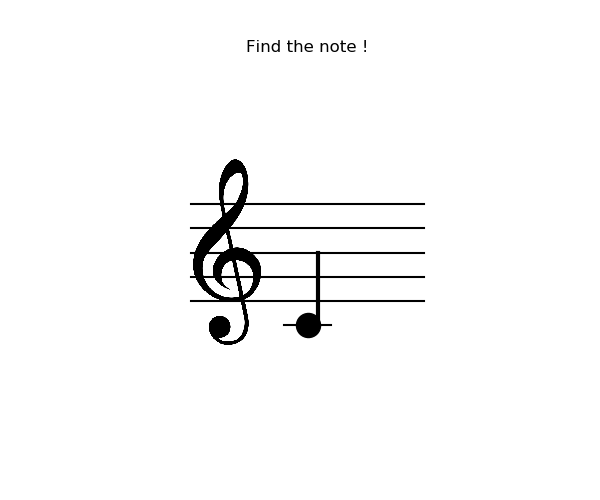
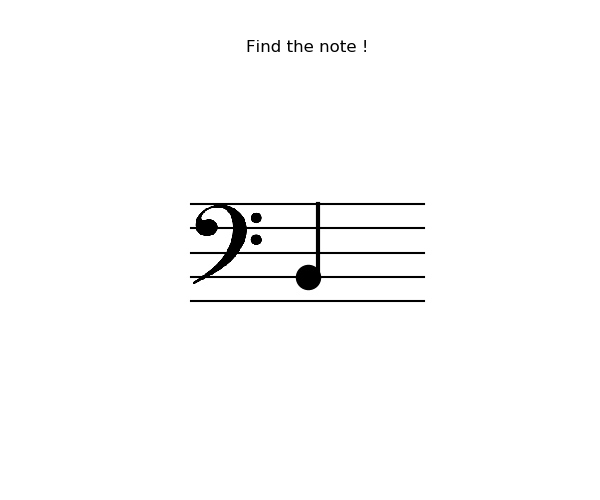
Ajout clé de fa, corrections diverses

Changed region(s): [[0.3, 0.3, 0.45, 0.69], [0.48, 0.42, 0.54, 0.69]]

diff --git a/JAC.py b/JAC.py
@@ -31,13 +31,14 @@ class Bot(discord.Client):
     # Modifiable :
     delay = 5
     delay_short = 4
-    NB_QUESTIONS = 5 # le nombre de questions pour le mode multijoueur
+    delay_short_short = 3
 
 
     # Non Modifiable - Initialisation des variables
     listen_for_mode=False
     listen_for_level=False
     listen_for_answer=False
+    listen_for_nbQuestion = False
     start_ = False
     hauteur = 0
     niveau = 1
@@ -49,6 +50,8 @@ class Bot(discord.Client):
     channel = None
     chrono = False
     classement_tmp = []
+    NB_QUESTIONS = 5 # nombre de questions mode multijoueur
+    switch = False #changement clé de fa
 
 
 
@@ -79,9 +82,10 @@ class Bot(discord.Client):
         x = 2
         if self.niveau==2:
             y = random.randint(-5,12) # note choisie de facon aléatoire niveau 2 (hors de la portée)
+            self.delay = self.delay_short #temps plus court
         elif self.niveau==3:
             y = random.randint(-9,19) # note choisie de facon aléatoire niveau 3 (hors de la portée - expert)
-            self.delay = self.delay_short #temps plus court
+            self.delay = self.delay_short_short #temps plus court
         else :
             y = random.randint(-2,9) # note choisie de facon aléatoire niveau 1 (sur la portée Do-Sol)
 
@@ -111,12 +115,19 @@ class Bot(discord.Client):
 
         # Affichage
         plt.title("Find the note !")
-        #Affichage de la clé de sol
-        image = plt.imread("./images/gkey.png")#Récupère la clé de sol
+        if not self.switch :
+            #Affichage de la clé de sol
+            image = plt.imread("./images/gkey.png")#Récupère la clé de sol
+            im = OffsetImage(image, zoom=0.15) #Resizing
+            ab = AnnotationBbox(im, (0.6, 4), xycoords='data', frameon=False) #positionnement
+        else :
+            #Affichage de la clé de fa
+            image = plt.imread("./images/fkey.png")#Récupère la clé de fa
+            im = OffsetImage(image, zoom=0.32)
+            ab = AnnotationBbox(im, (0.6, 4.7), xycoords='data', frameon=False)
+
         ax = plt.gca()
-        im = OffsetImage(image, zoom=0.15)
         artists = []
-        ab = AnnotationBbox(im, (0.6, 4), xycoords='data', frameon=False)
         artists.append(ax.add_artist(ab))
         self.hauteur = y
         # Enregistrement de l'image
@@ -128,6 +139,7 @@ class Bot(discord.Client):
     def check_answer(self, res, delay):
         # Réponses
         y=self.hauteur
+        if self.switch:y+=2
         notes_values=[]
         for i in range(7):
             notes_values.append([i-2+k*7 for k in range(-1,4)])
@@ -187,15 +199,16 @@ class Bot(discord.Client):
         print("------")
 
 
-    async def createQuestion(self, message):
+    async def createQuestion(self):
         # Question suivante
         self.create_im_question()
         self.listen_for_answer = True
-        message_img = await message.channel.send(file=discord.File(os.getcwd() +"/jac_img.png"))
+        message_img = await self.channel.send(file=discord.File(os.getcwd() +"/jac_img.png"))
         if self.niveau == 1:
             await message_img.add_reaction("💡")
         #Réactivation du chrono
         self.t_debut=time.time()
+        #Réinitialise le classement_tmp pour le mode mulitjoueur, propre à chaque question
         self.classement_tmp = []
 
 
@@ -206,8 +219,18 @@ class Bot(discord.Client):
         '''
         if self.start_:
             if user != self.user and reaction.emoji == "💡":
-                await self.channel.send(file=discord.File("./images/help.jpg"))
+                if not self.switch:
+                    await self.channel.send(file=discord.File("./images/ghelp.png")) #sol
+                else:
+                    await self.channel.send(file=discord.File("./images/fhelp.png")) #fa
+
                 self.t_debut=time.time()
+
+            if user != self.user and reaction.emoji == "⏩":
+                self.mode = 1
+                self.niveau = 1
+                await self.createQuestion()
+
 
 
 
@@ -215,17 +238,18 @@ class Bot(discord.Client):
         '''
         Affiche le classement des joueurs
         '''
-        print(self.players)
-        R = {k: v for k, v in sorted(self.players.items(), key=lambda item: item[1], reverse=True)}
+        #print(self.players)
+        R = {k: v for k, v in sorted(self.players.items(), key=lambda item: item[1])} #Trie les joueurs par classement croissant
         res = "**Classement :**\n"
-        for k in range(min(3, len(self.players))):
-            res += (str(k+1) + " - " + list(R.keys())[k] + " (" + str(list(R.values())[k]) + " points)\n")
+        l=len(self.players)-1
+        for k in range(l,  l-min(3,l+1), -1):
+            res += (str(l-k+1) + " - " + list(R.keys())[k] + " (" + str(list(R.values())[k]) + " points)\n")
         await message.channel.send(res)
 
 
     async def sendMeme(self, message, txtAnswer):
         score = self.players[message.author.name]
-        L = init_gif(score, txtAnswer)
+        L = init_gif(score, txtAnswer) # appelle à la méthode du fichier gif.py
         if len(L)>0:
             await message.channel.send(L[random.randint(0,len(L)-1)])
 
@@ -237,7 +261,8 @@ class Bot(discord.Client):
         if (message.content.startswith("!start")):
             self.start_ = True
             self.channel = message.channel
-            await message.channel.send("**Bienvenue !** \nCommandes :\n - !play, \n - !help, \n - !stop")
+            tmp = await message.channel.send("**Bienvenue !** \nCommandes principales :\n - !play, \n - !help, \n - !stop")
+            await tmp.add_reaction("⏩")
 
 
         if(message.author == self.user):#Ignore les messages provenant du bot
@@ -255,11 +280,17 @@ class Bot(discord.Client):
             #Aide
             if(message.content.startswith("!help") and not self.listen_for_answer):
                 intr = ""
-                cmd = "**Commandes :**\n - !play : commencer le jeu \n - !stop : arreter de jouer \n\n"
+                cmd = "**Commandes :**\n - !play : commencer le jeu \n - !switch : passer à la clé de fa \n - !stop : arreter de jouer \n\n"
                 mds = "**Modes :** \n - Entrainement \n - Multijoueurs \n\n"
                 fmts = "**Formats des réponses :** si, Si, SI, B, b \n\n"
                 cnt = "Copyright © 2021 Nathan.\n"
                 await message.channel.send(intr + cmd + mds + fmts + cnt)
+
+            #Switch clé de fa
+            if message.content.startswith("!switch"):
+                self.switch = not self.switch
+                await message.add_reaction("👌")
+
 
             # Mode Entrainement
             if(self.listen_for_answer and self.mode == 1):
@@ -277,16 +308,16 @@ class Bot(discord.Client):
 
 
                 else:
-                    if(txt[0]=="T"):
+                    if(txt[0]=="T"): # si réponse correcte
                         if not message.author.name in self.players:
                             self.players[message.author.name] = 0
-                        embed = self.create_embed(txt, " ", discord.Colour(int("0xFFA500", 16)))
+                        embed = self.create_embed(txt, " ", discord.Colour(int("0xFFA500", 16))) # création d'un embed vert
                     else:
                         self.players[message.author.name] = 0
-                        embed = self.create_embed(txt, " ", discord.Colour(int("0xFF0000", 16)))
-                await message.channel.send(embed=embed)
+                        embed = self.create_embed(txt, " ", discord.Colour(int("0xFF0000", 16))) # création d'un enbed rouge
+                await message.channel.send(embed=embed) # envoi de l'embed
                 await self.sendMeme(message, txt[0])
-                await self.createQuestion(message)
+                await self.createQuestion()
 
 
 
@@ -315,11 +346,11 @@ class Bot(discord.Client):
                 if not self.chrono:
                     try:
                         self.chrono = True
-                        reaction, user = await discord.Client().wait_for('reaction_add', timeout=5.0)
-                    except asyncio.TimeoutError:
+                        reaction, user = await discord.Client().wait_for('reaction_add', timeout=self.delay)
+                    except asyncio.TimeoutError:#après 5 secondes, envoi de la question suivante
                         self.questions_counter += 1
                         if self.questions_counter <= self.NB_QUESTIONS:
-                            await self.createQuestion(message)
+                            await self.createQuestion()
                             self.chrono = False
                         else :
                             self.chrono = False
@@ -333,17 +364,32 @@ class Bot(discord.Client):
                 self.niveau = int(message.content)
                 self.listen_for_level = False
                 await message.add_reaction("👌")
-                await message.channel.send("**" + str(self.NB_QUESTIONS) + " questions - " + str(self.delay) + " secondes pour répondre le plus vite possible - une réponse fausse fait perdre des points**")
-                await self.createQuestion(message)
+                if self.niveau == 3: self.delay = self.delay_short_short
+                if self.niveau == 2: self.delay = self.delay_short
+                if self.mode == 2:
+                    await message.channel.send("**" + str(self.NB_QUESTIONS) + " questions - " + str(self.delay) + " secondes pour répondre le plus vite possible - une réponse fausse fait perdre des points**")
+                await self.createQuestion()
+
+            if(self.listen_for_nbQuestion):
+                self.NB_QUESTIONS = int(message.content)
+                await message.add_reaction("👌")
+                self.listen_for_nbQuestion = False
+                await message.channel.send("**Niveau :** \n 1 - facile \n 2 - dur \n 3 - très dur")
+                self.listen_for_level = True
+
 
             if(self.listen_for_mode):
                 self.listen_for_mode = False
                 self.mode = int(message.content)
                 self.questions_counter = 1
                 await message.add_reaction("👌")
-                players = {} # reinitialise le dico players
-                await message.channel.send("**Niveau :** \n 1 - facile \n 2 - dur \n 3 - très dur")
-                self.listen_for_level = True
+                self.players = {} # reinitialise le dico players
+                if self.mode == 2:
+                    await message.channel.send("Nombre de questions ?")
+                    self.listen_for_nbQuestion = True
+                else:
+                    await message.channel.send("**Niveau :** \n 1 - facile \n 2 - dur \n 3 - très dur")
+                    self.listen_for_level = True
 
 
             #Selection mode

diff --git a/gif.py b/gif.py
@@ -22,7 +22,7 @@ def init_gif(score, txtAnswer):
 
 
         elif score == 10:
-            L=["https://tenor.com/view/well-done-despicable-me-minions-cheering-gif-4733480", "https://tenor.com/view/clapping-leonardo-dicaprio-leo-dicaprio-well-done-applause-gif-16463566", "https://tenor.com/view/awesome-reaction-you-who-whos-awesome-gif-4860921", "https://tenor.com/view/wow-ted2-ted2gifs-amaze-gif-4869672"]
+            L=["https://tenor.com/view/well-done-despicable-me-minions-cheering-gif-4733480", "https://tenor.com/view/clapping-leonardo-dicaprio-leo-dicaprio-well-done-applause-gif-16463566", "https://tenor.com/view/awesome-reaction-you-who-whos-awesome-gif-4860921", "https://tenor.com/view/wow-ted2-ted2gifs-amaze-gif-4869672", "https://tenor.com/view/you-da-gif-15960920"]
 
 
         elif score == 20:
@@ -41,8 +41,8 @@ def init_gif(score, txtAnswer):
         L=["https://tenor.com/view/mr-bean-checking-time-waiting-gif-11570520", "https://tenor.com/view/judge-judy-double-time-faster-hurry-gif-7566976", "https://tenor.com/view/kid-bored-boring-wait-waiting-gif-5434959", "https://tenor.com/view/grandma-84years-waiting-titanic-rose-dewitt-bukater-gif-5132563", "https://tenor.com/view/waiting-cookie-monster-wait-bored-gif-5885685"]
 
     else :
-        L=["https://tenor.com/view/norman-faux-norman-thavaud-gif-12397622", "https://tenor.com/view/wrong-donald-trump-not-right-gif-8471142", "https://tenor.com/view/philippe-poutou-faux-pas-vrai-gif-8451629", "https://tenor.com/view/you-tried-its-alright-its-ok-dont-worry-relax-gif-12421009", "https://tenor.com/view/i-believe-in-second-chances-one-more-chance-try-again-forgive-chance-the-rapper-gif-15442266", "https://tenor.com/view/peter-draws-lets-try-again-try-again-lets-try-gif-11754833", "https://tenor.com/view/game-over-insert-coins-gif-12235828", "https://tenor.com/view/the-game-you-lost-simon-pegg-shaun-of-the-dead-gif-15513407", "https://tenor.com/view/fran%C3%A7ois-hollande-non-nan-gif-13177557","https://tenor.com/view/master-much-to-learn-you-still-have-gif-10612124","https://tenor.com/view/despicable-me-minions-ehh-no-nope-gif-4741703", "https://tenor.com/view/mr-bean-rowan-atkinson-mad-angry-upset-gif-4308696","https://tenor.com/view/hein-melenchon-gif-18357063", "https://tenor.com/view/mr-bean-pivot-scare-shocked-rowan-atkinson-gif-16388374"]
-        if random.randint(0,1)==1:L=[]
+        L=["https://tenor.com/view/norman-faux-norman-thavaud-gif-12397622", "https://tenor.com/view/wrong-donald-trump-not-right-gif-8471142", "https://tenor.com/view/philippe-poutou-faux-pas-vrai-gif-8451629", "https://tenor.com/view/you-tried-its-alright-its-ok-dont-worry-relax-gif-12421009", "https://tenor.com/view/i-believe-in-second-chances-one-more-chance-try-again-forgive-chance-the-rapper-gif-15442266", "https://tenor.com/view/peter-draws-lets-try-again-try-again-lets-try-gif-11754833", "https://tenor.com/view/game-over-insert-coins-gif-12235828", "https://tenor.com/view/the-game-you-lost-simon-pegg-shaun-of-the-dead-gif-15513407", "https://tenor.com/view/fran%C3%A7ois-hollande-non-nan-gif-13177557","https://tenor.com/view/master-much-to-learn-you-still-have-gif-10612124","https://tenor.com/view/despicable-me-minions-ehh-no-nope-gif-4741703", "https://tenor.com/view/mr-bean-rowan-atkinson-mad-angry-upset-gif-4308696","https://tenor.com/view/hein-melenchon-gif-18357063", "https://tenor.com/view/mr-bean-pivot-scare-shocked-rowan-atkinson-gif-16388374","https://tenor.com/view/ups-error-facepalm-gif-15403364","https://tenor.com/view/non-nan-louis-de-funes-gif-5034276", "https://tenor.com/view/louis-de-funes-omg-gif-10661575", "https://tenor.com/view/face-palm-shake-my-head-smdh-smh-muppets-gif-5928154", "https://tenor.com/view/stitch-frustration-%E5%8F%B2%E8%BF%AA%E5%A5%87-gif-4802586", "https://tenor.com/view/facepalm-ugh-disappointed-stressed-frustrated-gif-11696891","https://tenor.com/view/nope-danny-de-vito-no-gif-8123780", "https://tenor.com/view/cat-no-no-no-no-nope-nope-nope-i-dont-think-so-gif-17182586", "https://tenor.com/view/your-happy-workplace-sock-puppet-scenarios-sock-puppets-sock-puppet-um-no-gif-17088998"]
+        if random.random() < 0.66:L=[]
 
 
 
